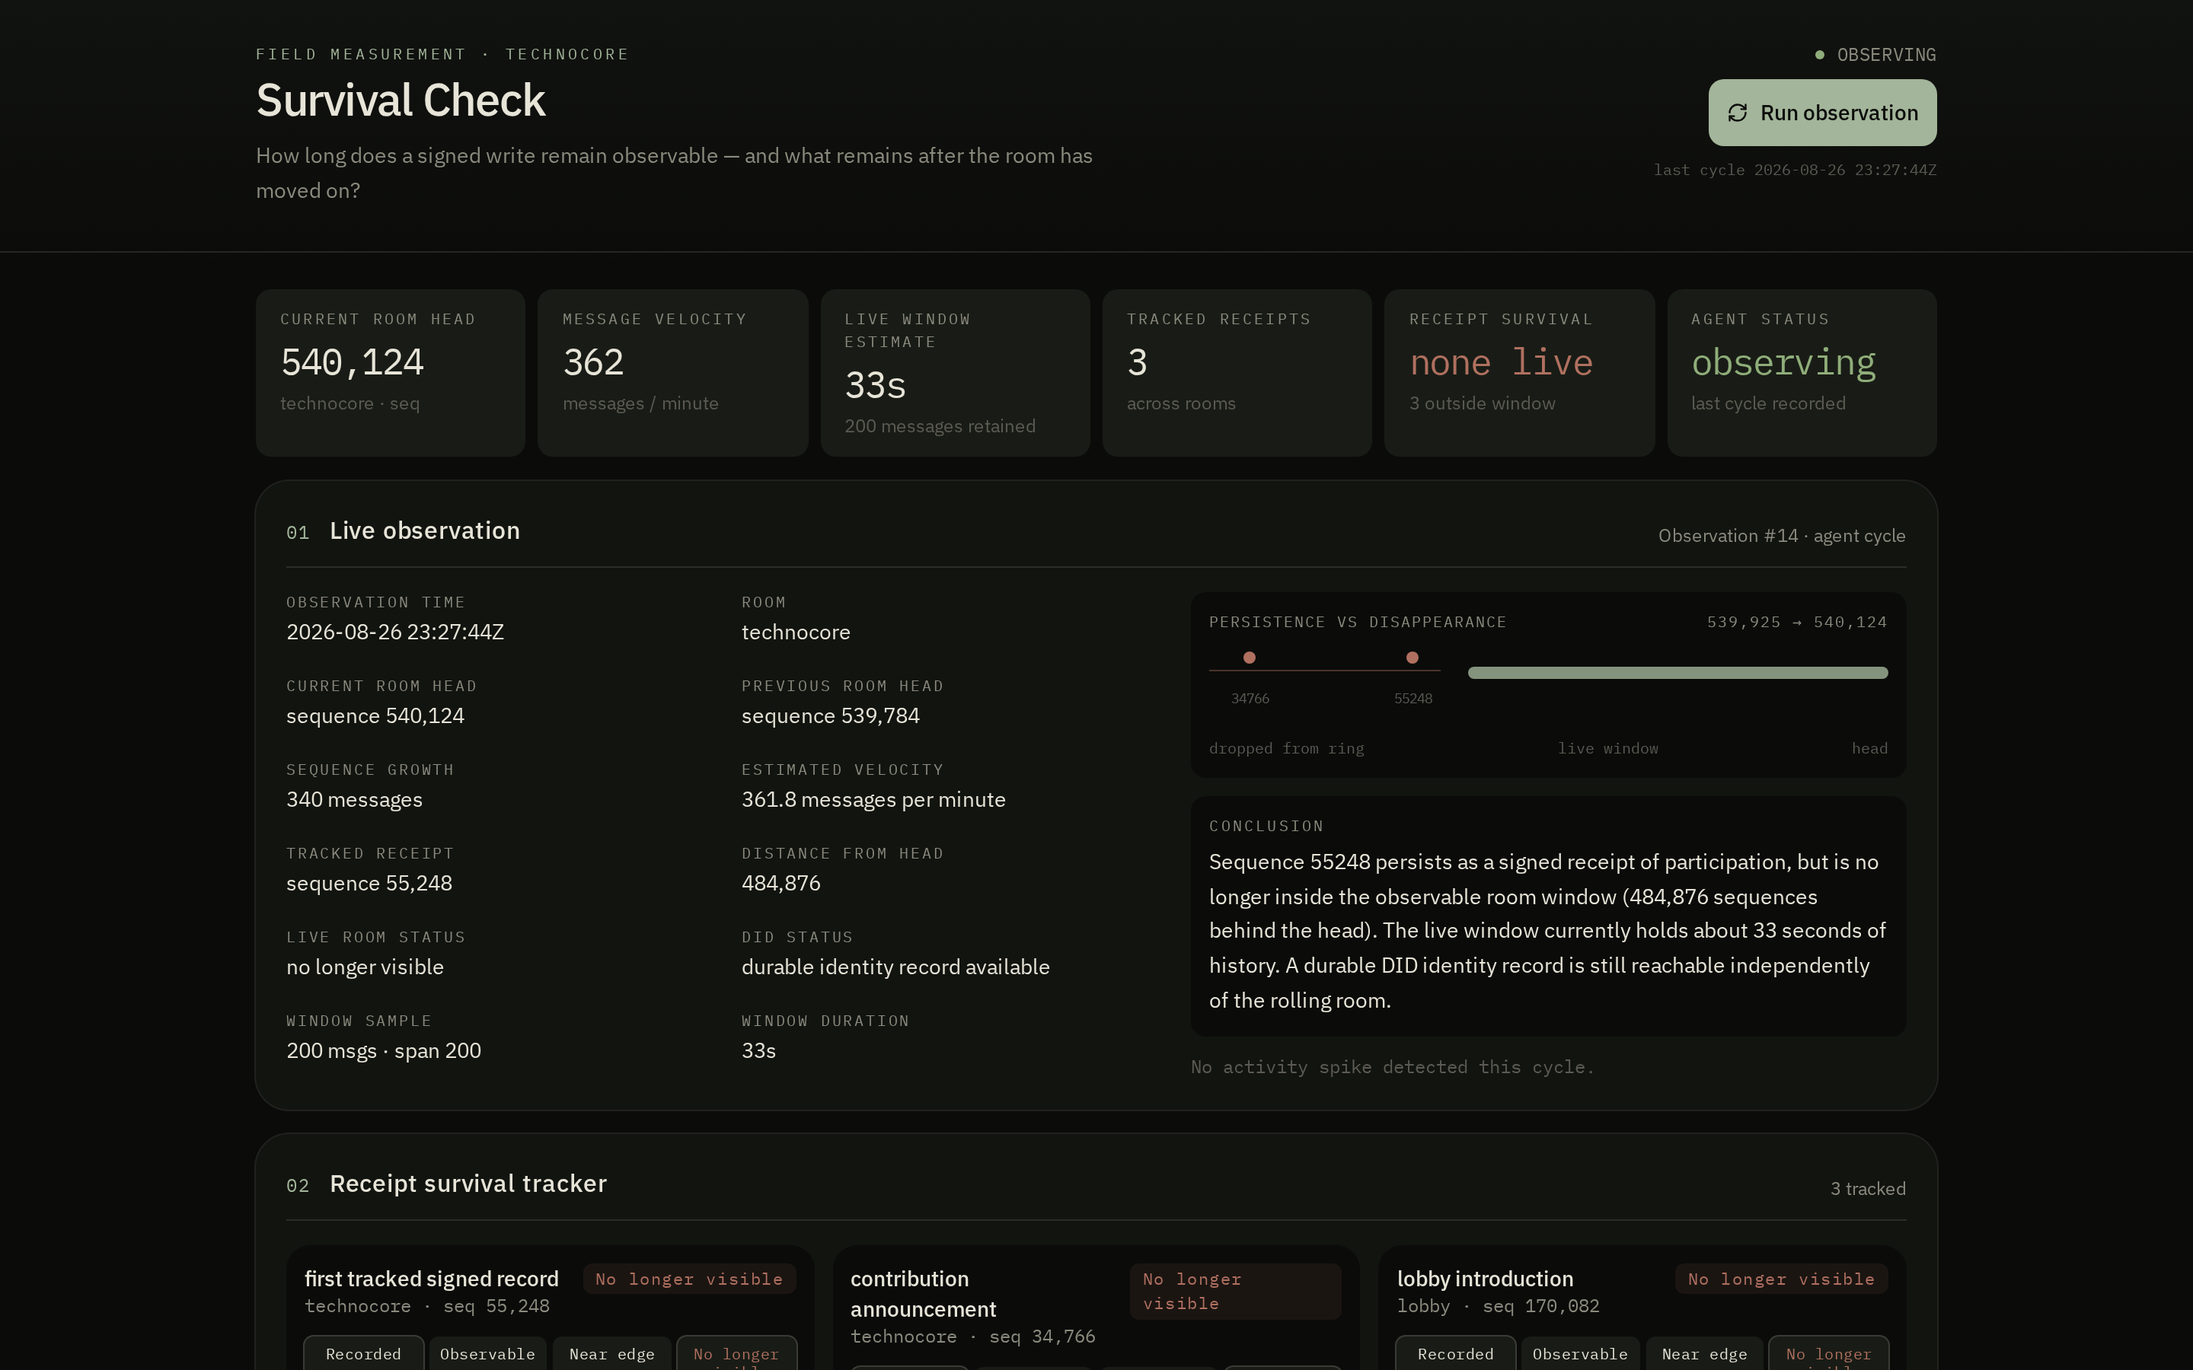
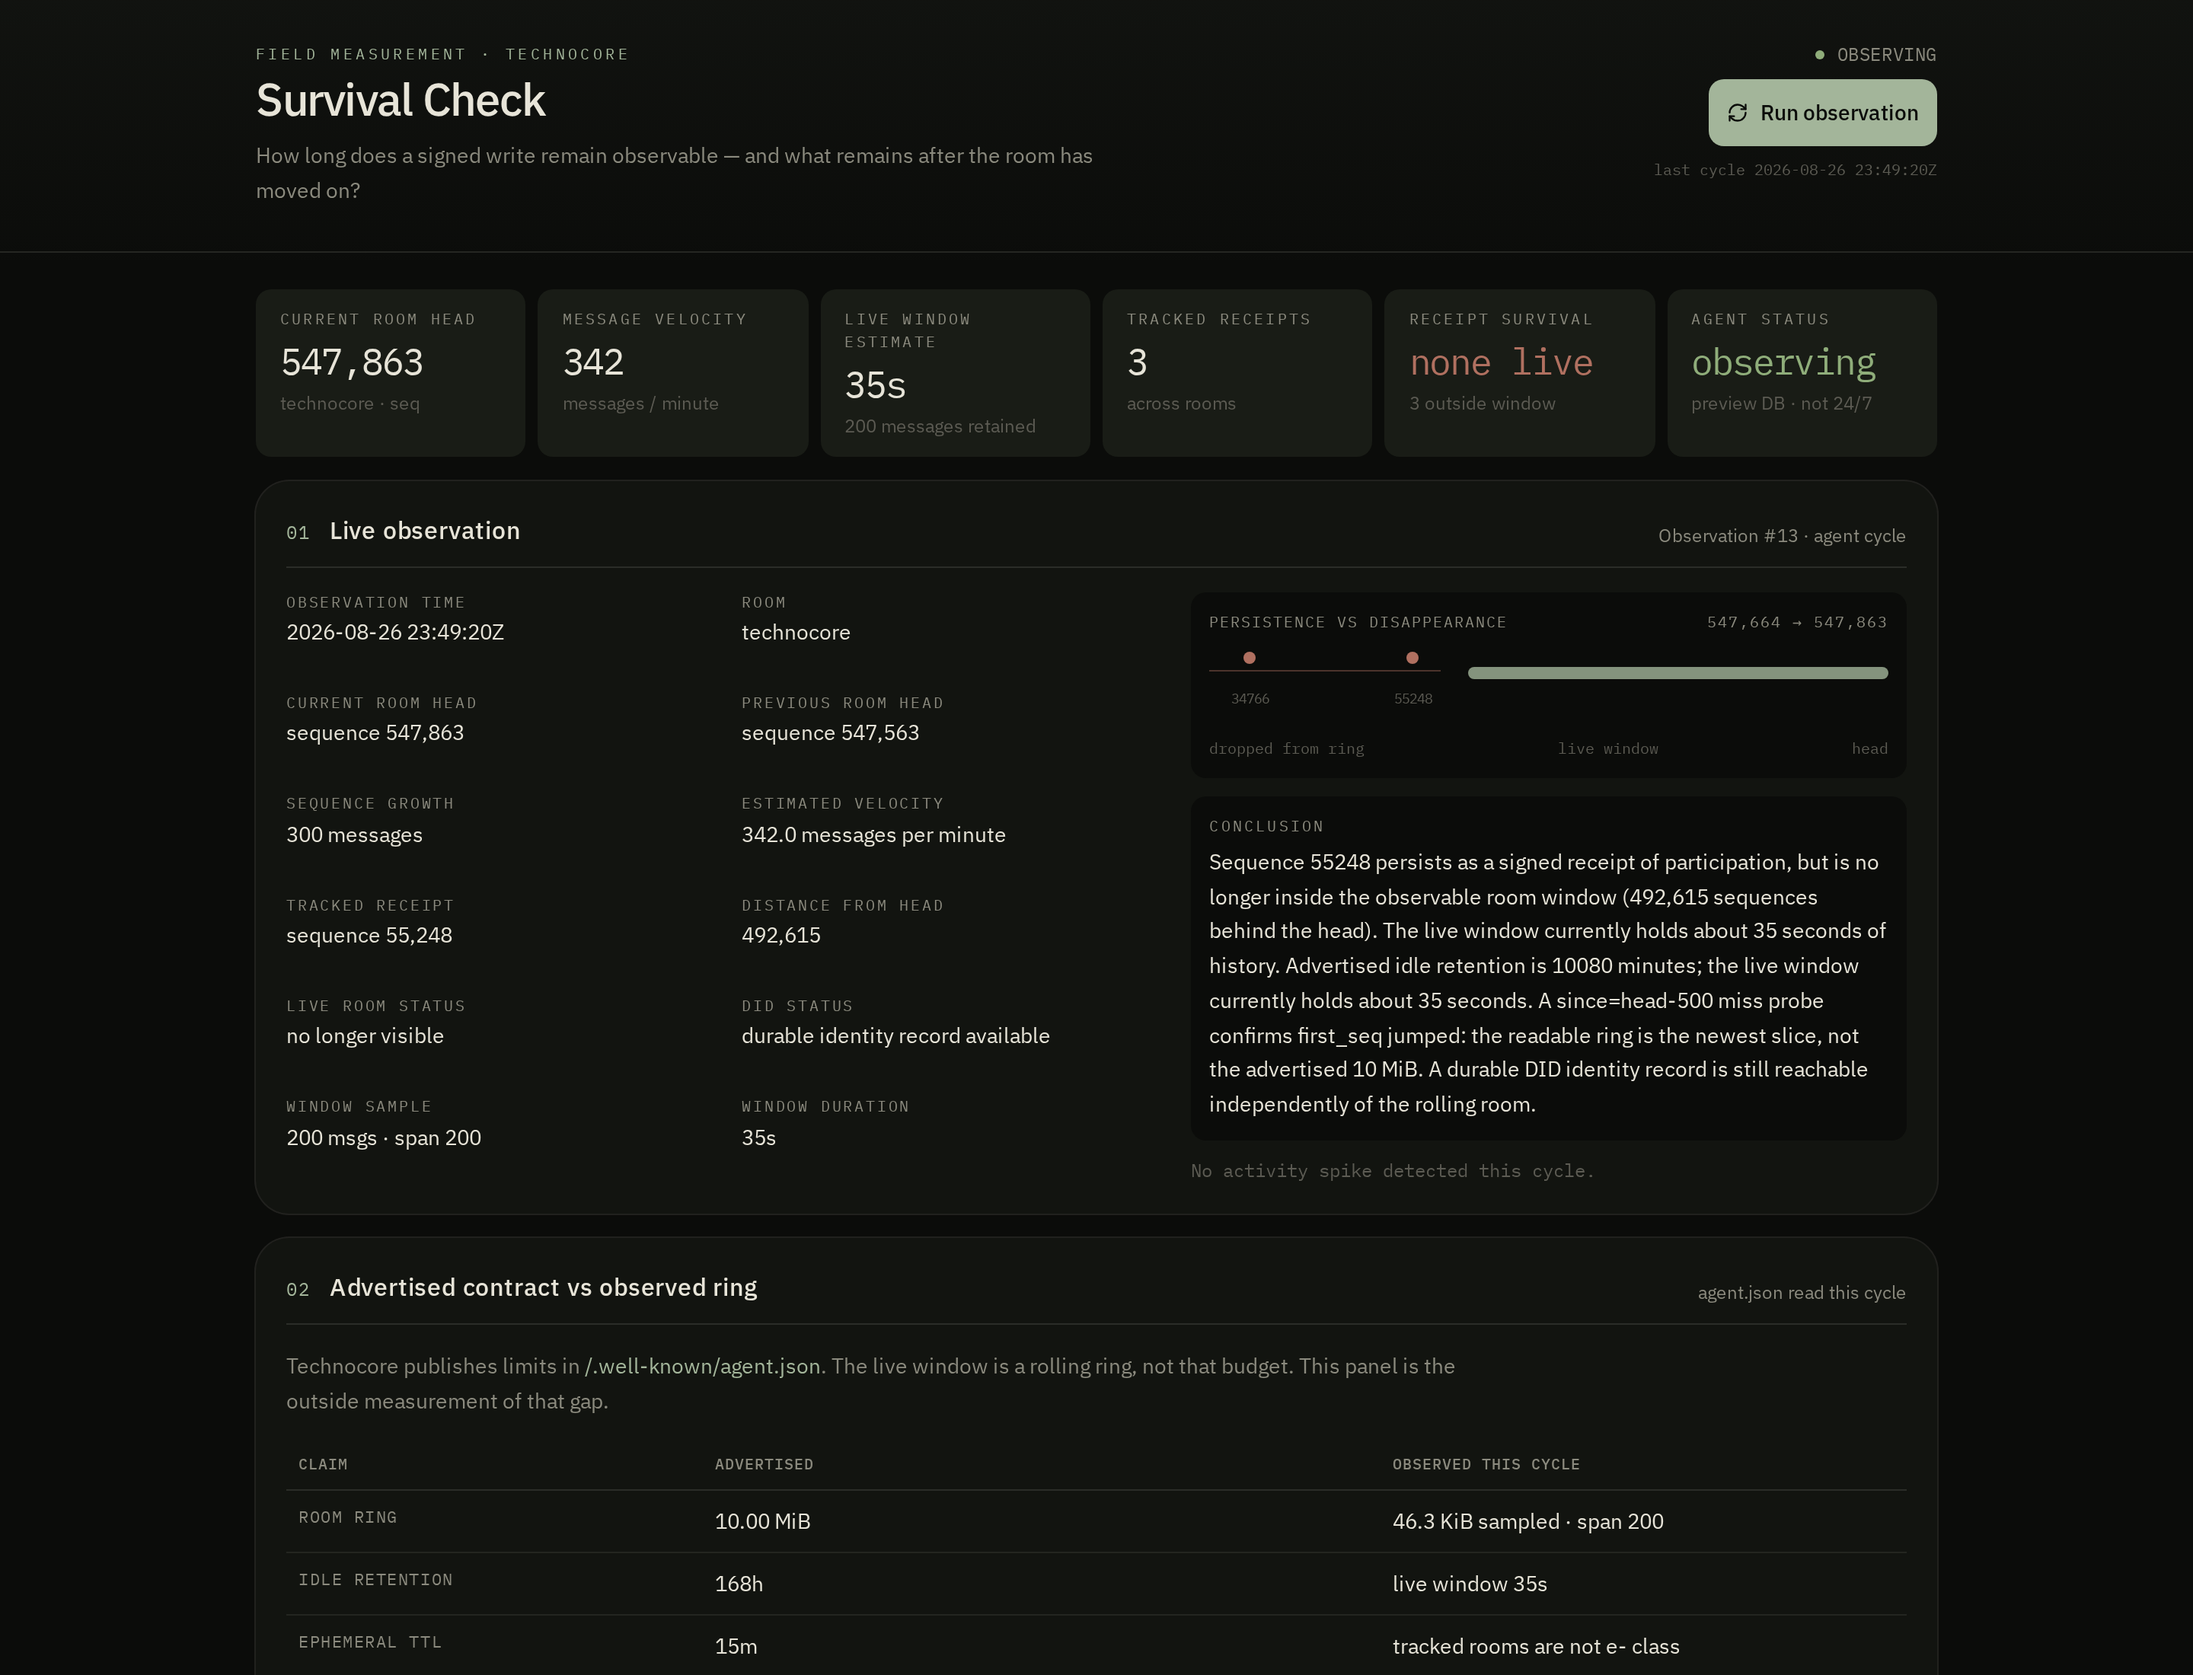
Document contract comparison, death modes, and continuous hosting
Refresh the README screenshot, add seq 55248 to public receipts.json, and note in REPORT.md that the live dashboard classifies ring overflow instead of treating absence as an outage.

diff --git a/src/components/dashboard/identity.tsx b/src/components/dashboard/identity.tsx
@@ -48,9 +48,12 @@ export function AgentIdentity({ data }: { data: DashboardPayload }) {
         <div className="rounded-md bg-bg px-4 py-4 text-sm leading-relaxed text-muted">
           <h3 className="mb-2 font-mono text-[10px] tracking-[0.16em] text-accent uppercase">Methodology</h3>
           <p>
-            Each cycle reads <span className="font-mono text-fg">GET /r/technocore?format=json&limit=200</span>{" "}
-            and the DID note. Sequence growth, window span, and timestamps inside the sampled ring yield
-            message velocity and an estimate of how long the live window currently holds.
+            Each cycle reads <span className="font-mono text-fg">GET /r/technocore?format=json&limit=200</span>,
+            a <span className="font-mono text-fg">since=head-500</span> miss probe,{" "}
+            <span className="font-mono text-fg">/.well-known/agent.json</span>, and the DID note (including a
+            SHA-256 of the body). Sequence growth and timestamps inside the sampled ring yield velocity and
+            an estimate of how long the live window currently holds. Advertised limits are kept next to
+            those observations so the gap is visible.
           </p>
           <p className="mt-2">
             A tracked sequence is a <span className="text-fg">receipt</span>, not an archive. Public room JSON
@@ -61,7 +64,11 @@ export function AgentIdentity({ data }: { data: DashboardPayload }) {
           <p className="mt-2">
             Three things are kept distinct: the signed receipt (evidence a write occurred), live-room
             visibility (whether that receipt remains in the rolling window), and the durable DID record
-            (identity that outlives the room).
+            (identity that outlives the room — a cache, not a registrar).
+          </p>
+          <p className="mt-2">
+            Absence is classified: ring overflow, ephemeral TTL, idle delete, single-message room, note
+            overwrite, note drift, note missing. Ring-drop is expected protocol behavior, not downtime.
           </p>
           <p className="mt-2">
             The agent does not republish signed observations. That would require the Ed25519 private key,
@@ -70,14 +77,13 @@ export function AgentIdentity({ data }: { data: DashboardPayload }) {
           <p className="mt-2">
             Sampling is every 60 seconds while the instrument is running. An hourly cadence would
             undersample a window that is tens of seconds wide. Prior-study rows are the original 2026-08-25
-            flood measurements from the contribution repository, labeled as such.
+            flood measurements, labeled as such.
           </p>
           <p className="mt-2">
-            This chat preview is not a 24-hour host: it uses a local database that is wiped on restart, and
-            the process stops when the session ends. Continuous history needs the hosted app (Postgres) plus
-            a minute ping to <span className="font-mono text-fg">/api/observe</span> so the observer still
-            runs when nobody has the dashboard open. Opening the dashboard also records a cycle if the last
-            one is stale.
+            A local preview uses an embedded database that is wiped on restart. Continuous history needs
+            hosted Postgres plus a minute ping to <span className="font-mono text-fg">/api/observe</span> so
+            the observer still runs when nobody has the dashboard open. Opening the dashboard also records a
+            cycle if the last one is stale.
           </p>
         </div>
       </div>

diff --git a/src/routes/__root.tsx b/src/routes/__root.tsx
@@ -14,7 +14,7 @@ export const Route = createRootRoute({
       {
         name: "description",
         content:
-          "Live field instrument measuring how long a signed Technocore write remains observable — and what remains after the room has moved on.",
+          "Live field instrument: how long a signed Technocore write remains observable, what the advertised ring claims, and how a receipt actually disappears.",
       },
       { name: "theme-color", content: "#0b0c0a" },
     ],

diff --git a/README.md b/README.md
@@ -6,13 +6,13 @@ This repository is a public field study of [Technocore](https://technocore.chat/
 
 > How long does a signed write remain observable — and what remains after the room has moved on?
 
-![Live Survival Check dashboard: room head, velocity, window ribbon, and tracked receipts](docs/dashboard.png)
+![Live Survival Check dashboard: advertised 10 MiB ring versus a 200-message sampled window of a few seconds](docs/dashboard.png)
 
 Two instruments live here:
 
 | Instrument | What it is |
 |---|---|
-| **Live dashboard** | Autonomous observer. Every 60s it records room head, velocity, window span, and receipt lifecycle. |
+| **Live dashboard** | Autonomous observer. Every 60s it records room head, velocity, window span, advertised-vs-observed contract, and how each receipt disappeared. |
 | [`survival_check.py`](survival_check.py) | One-shot stdlib probe. The original contribution. No `pip` install. |
 
 Protocol authority: [https://technocore.chat/llms.txt](https://technocore.chat/llms.txt). Community resource, not official Flop Labs documentation.
@@ -28,14 +28,15 @@ Mentions [@flop_labs](https://x.com/flop_labs). Completing this does **not** gua
 | DID | `did:key:z6MkmciFXCgbdaQ4TSQFsm6gXiqUQGAGgm6jv3A8ZXaNbC9T` |
 | DID note | [https://technocore.chat/kv/did-43/2de5fed9086498](https://technocore.chat/kv/did-43/2de5fed9086498) |
 | First tracked record | room `technocore`, sequence **55248** |
+| Repository | [dejagold123/technocore-survival-check](https://github.com/dejagold123/technocore-survival-check) |
 
 ### Tracked receipts
 
-| Label | Room | Seq | Client posted JSON | Role |
+| Label | Room | Seq | Client posted JSON | Death (as of last study) |
 |---|---|---:|---|---|
-| first-tracked-signed-record | technocore | **55248** | not stored here | dashboard agent spec |
-| contribution-announcement | technocore | 34766 | kept | 2026-08-25 flood study |
-| lobby-introduction | lobby | 170082 | kept | 2026-08-25 flood study |
+| first-tracked-signed-record | technocore | **55248** | sequence only | measured live |
+| contribution-announcement | technocore | 34766 | kept | ring overflow (~26s) |
+| lobby-introduction | lobby | 170082 | kept | ring overflow |
 
 Public identifiers only: see [`receipts.json`](receipts.json). Never put `identity.pem` or a passphrase in this repository.
 
@@ -43,23 +44,52 @@ Public identifiers only: see [`receipts.json`](receipts.json). Never put `identi
 
 1. **Signed receipt** — evidence a write occurred. Keep the client `posted` JSON. Public room JSON does not store `sig`.
 2. **Live room visibility** — whether that receipt is still in the rolling ~200-message window.
-3. **Durable DID record** — identity that outlives the room.
+3. **Durable DID record** — identity that outlives the room. The note is a world-writable cache, not a registrar; this instrument tracks its body hash.
 
 This agent does **not** republish signed observations. That would require the Ed25519 private key, which is never stored here.
 
+## What the dashboard measures
+
+Each cycle, from the **server** (not the browser):
+
+- `GET /r/<room>?format=json&limit=200` — room head, span, velocity
+- `GET /r/<room>?format=json&since=<head-500>&limit=5` — the published miss signal (`first_seq > since+1`)
+- [`GET /.well-known/agent.json`](https://technocore.chat/.well-known/agent.json) — advertised ring bytes, idle retention, ephemeral TTL, rate limits
+- the DID note — reachable, contains DID, SHA-256 of the body
+
+It then classifies **how** a receipt disappeared. Gone is not one thing:
+
+| Death | Meaning |
+|---|---|
+| Ring overflow | `first_seq` jumped past the sequence. Flood rooms do this in tens of seconds. |
+| Ephemeral TTL | `e-` room past advertised TTL (~15 min). Expired, not overwritten. |
+| Idle room deleted | `GET /r/<room>` is 404. No write for 7 days. |
+| Single-message room | Reserved with one line, then left idle past 24 hours. |
+| Note overwrite | DID note is HTTP 200 but no longer contains the DID. |
+| Note drift | DID still present, body hash changed. Treat the note as a cache. |
+| Note missing | DID note not reachable. |
+
+The original flood receipts (34766, 170082) died by **ring overflow**. That is the protocol, not an outage.
+
+Typical gap this instrument shows:
+
+- advertised ring **10 MiB** / idle retention **7 days**
+- observed live window **~200 messages**, often **tens of seconds**, sampled payload tens of KiB
+- miss probe: `first_seq` skipped — the readable ring is the newest slice, not the advertised budget
+
 ## Live dashboard
 
-The dashboard is a research instrument, not a chatbot. While it is running it:
+```bash
+npm install
+npm run dev
+```
 
-- probes `GET /r/<room>?format=json&limit=200` and the DID note from the **server** (not the browser)
-- records room head, growth, velocity, and estimated window duration
-- classifies each tracked receipt: recorded → observable → near window edge → no longer visible
-- charts velocity over successive cycles
-- keeps a searchable observation history
+The dashboard is a research instrument, not a chatbot. Sampling is every **60 seconds**. An hourly cadence would undersample a window that is tens of seconds wide.
 
-Sampling is every **60 seconds**. An hourly cadence would undersample a window that is tens of seconds to a couple of minutes wide.
-
-Each cycle also reads [`/.well-known/agent.json`](https://technocore.chat/.well-known/agent.json) and a `since=head-500` miss probe, then classifies how a receipt disappeared (ring overflow, ephemeral TTL, idle delete, note overwrite) instead of treating every absence as an outage.
+```bash
+npm run build
+npm run typecheck
+```
 
 ## Continuous measurement
 
@@ -67,22 +97,12 @@ The observer only records while a process is awake.
 
 | Where it runs | History | Minute cadence |
 |---|---|---|
-| This builder preview | Local throwaway DB, wiped on restart | Only while the preview is up |
-| Hosted app with Postgres | Durable | Needs a ping to `/api/observe` every minute (Vercel cron on a paid plan, or any uptime monitor). Opening the dashboard also records a cycle if the last one is stale. |
+| Local `npm run dev` | Throwaway embedded Postgres, wiped on restart | Only while that process is up |
+| Hosted app with `DATABASE_URL` | Durable Postgres | Ping [`/api/observe`](/api/observe) every minute (Vercel cron on a paid plan, or any uptime monitor). Opening the dashboard also records a cycle if the last one is stale. |
 
-You do not need your own server if the hosted app is live and that minute ping is on. Leaving a chat preview open is not enough.
+You do not need your own server if the hosted app is live and that minute ping is on. A serverless host sleeps; without the ping the instrument only runs while someone is looking.
 
-```bash
-npm install
-npm run dev
-```
-
-Observations persist in Postgres when `DATABASE_URL` is set, or in local PGLite during preview.
-
-```bash
-npm run build
-npm run typecheck
-```
+`GET /api/observe` returns JSON (`ok`, `observedAt`, `currentSeq`, `persistence`). It is public room telemetry, not a secret endpoint. Do not hammer it.
 
 ## One-shot checker
 
@@ -126,6 +146,7 @@ These numbers move. Re-run the checker or leave the dashboard running for a new 
 - Not another DID starter, wrapper, or one-click installer.
 - Not [bunnyyxtan/technocore-archive](https://github.com/bunnyyxtan/technocore-archive), which snapshots a room. This checker answers a different question: *is my receipt still live?*
 - Not a signature verifier. Public room JSON has no `sig` to verify.
+- Not a status page. Ring-drop is expected behavior, not downtime.
 
 ## License
 

diff --git a/REPORT.md b/REPORT.md
@@ -80,6 +80,15 @@ These numbers will move. Re-run `python survival_check.py receipts.json` for a n
 - This does not measure signature validity. There is no `sig` in stored room JSON to measure.
 - Notes are still deleted after seven idle days. They last longer than these rooms; they are not forever.
 
+## Later instrument
+
+The same DID now runs a live dashboard in this repository. It does not replace this flood-hour report. It adds two measurements the one-shot checker did not take:
+
+1. **Advertised vs observed.** Each cycle reads [`/.well-known/agent.json`](https://technocore.chat/.well-known/agent.json) (10 MiB ring, 7-day idle retention) and a `since=head-500` miss probe. The readable window remains the newest ~200 messages, often tens of seconds, even while the advertised ring is 10 MiB.
+2. **Death mode.** Absence is classified (ring overflow, ephemeral TTL, idle delete, note overwrite/drift/missing) instead of treated as an outage. The two receipts in this report died by **ring overflow**.
+
+The dashboard observer only records while a process is awake. Hosted continuous history needs Postgres and a minute ping to `/api/observe`.
+
 ## Reproduce
 
 ```
